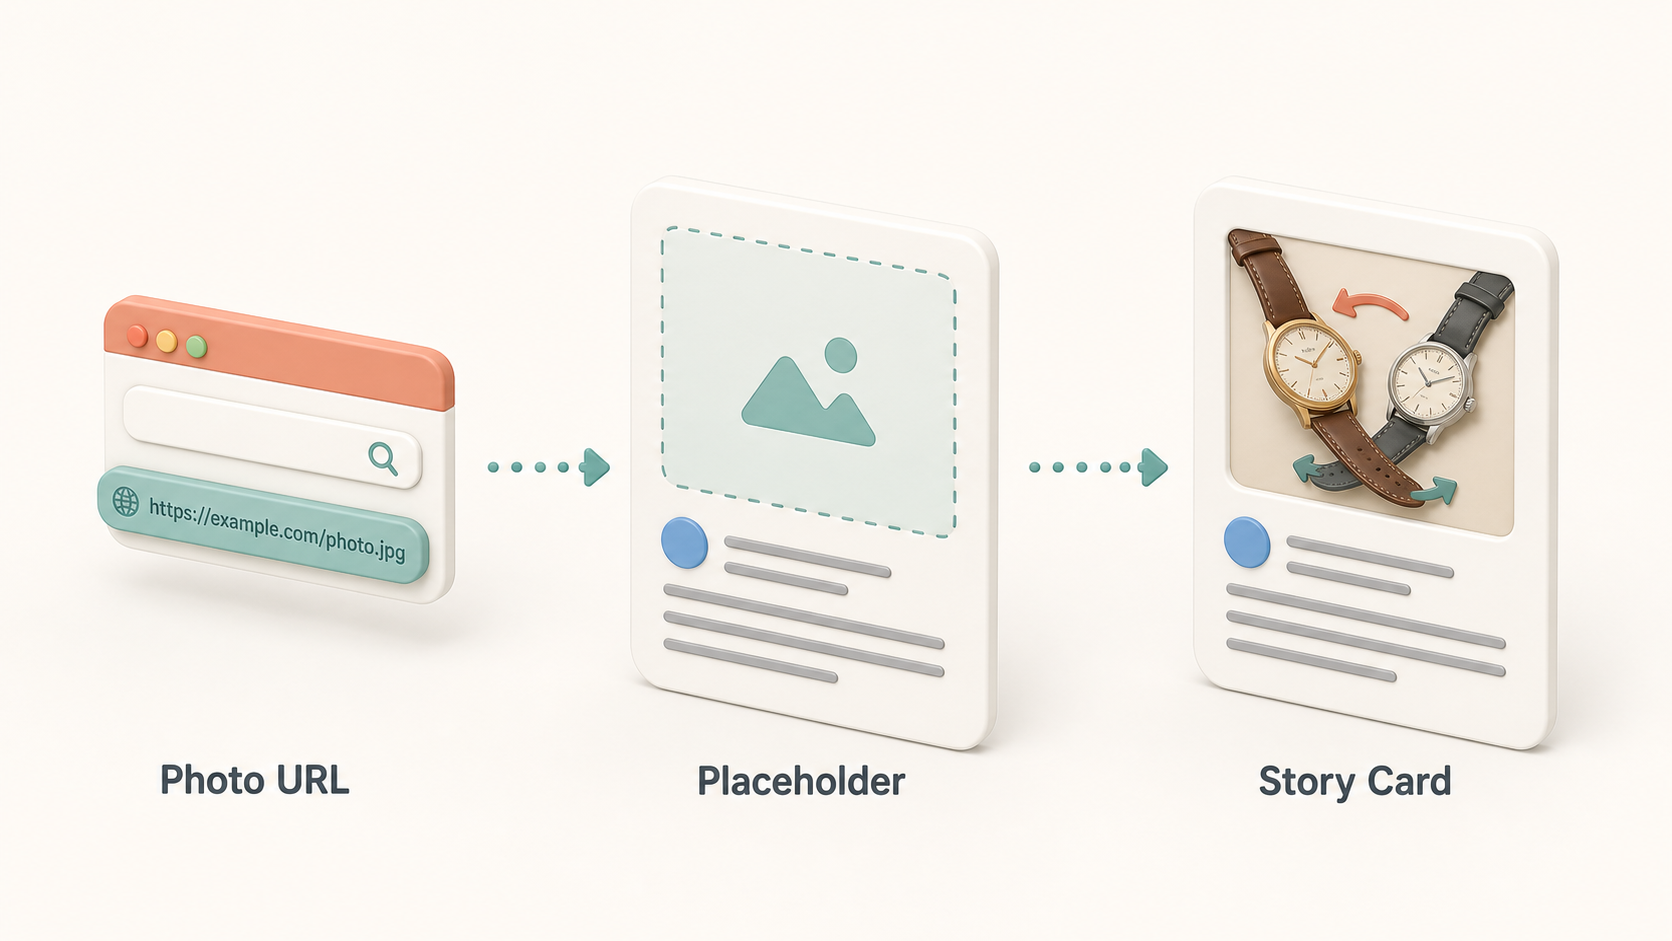
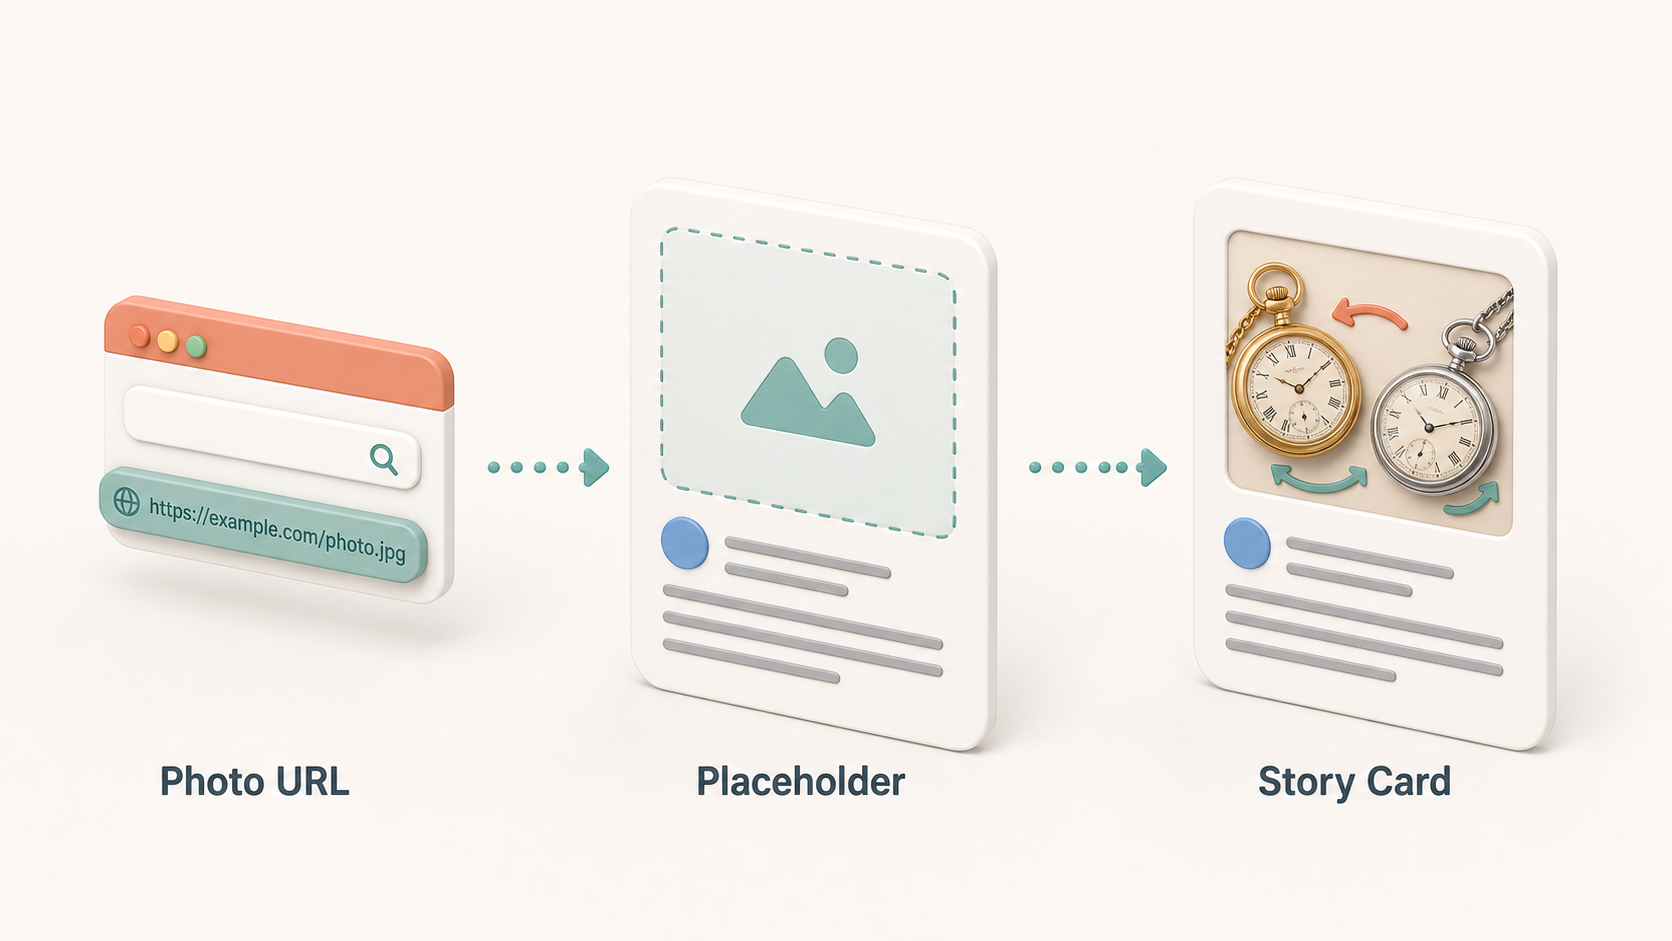
Correct story card watch imagery
Replace the wristwatch scene in the storytelling card flow image with pocket watches and keep the web app basics section headers from squeezing into awkward wraps.

Constraint: User clarified the historical watch exchange should be represented with pocket watches, not wristwatches.

Rejected: Keeping the previous generated wristwatch asset | It was visually polished but historically mismatched for the lesson.

Confidence: high

Scope-risk: narrow

Directive: Historical-story visuals should favor symbolic accuracy over generic polished objects.

Tested: git diff --check; local server responses returned 200 OK for story-card.html, assets/storytelling-card-flow.png, and index.html.

Not-tested: Manual browser screenshot after cache refresh.

diff --git a/index.html b/index.html
@@ -212,15 +212,17 @@
     }
 
     .section-header {
-      max-width: 1080px;
+      display: block;
+      max-width: none;
       margin-bottom: 32px;
     }
 
     .section h2 {
       margin-bottom: 12px;
-      font-size: clamp(30px, 3.8vw, 48px);
+      font-size: clamp(30px, 3.2vw, 42px);
       line-height: 1.08;
       letter-spacing: 0;
+      word-break: keep-all;
     }
 
     .section-kicker {
@@ -231,7 +233,8 @@
     }
 
     .section-summary {
-      max-width: 920px;
+      display: block;
+      max-width: 960px;
       color: var(--muted);
       line-height: 1.65;
       font-size: 17px;